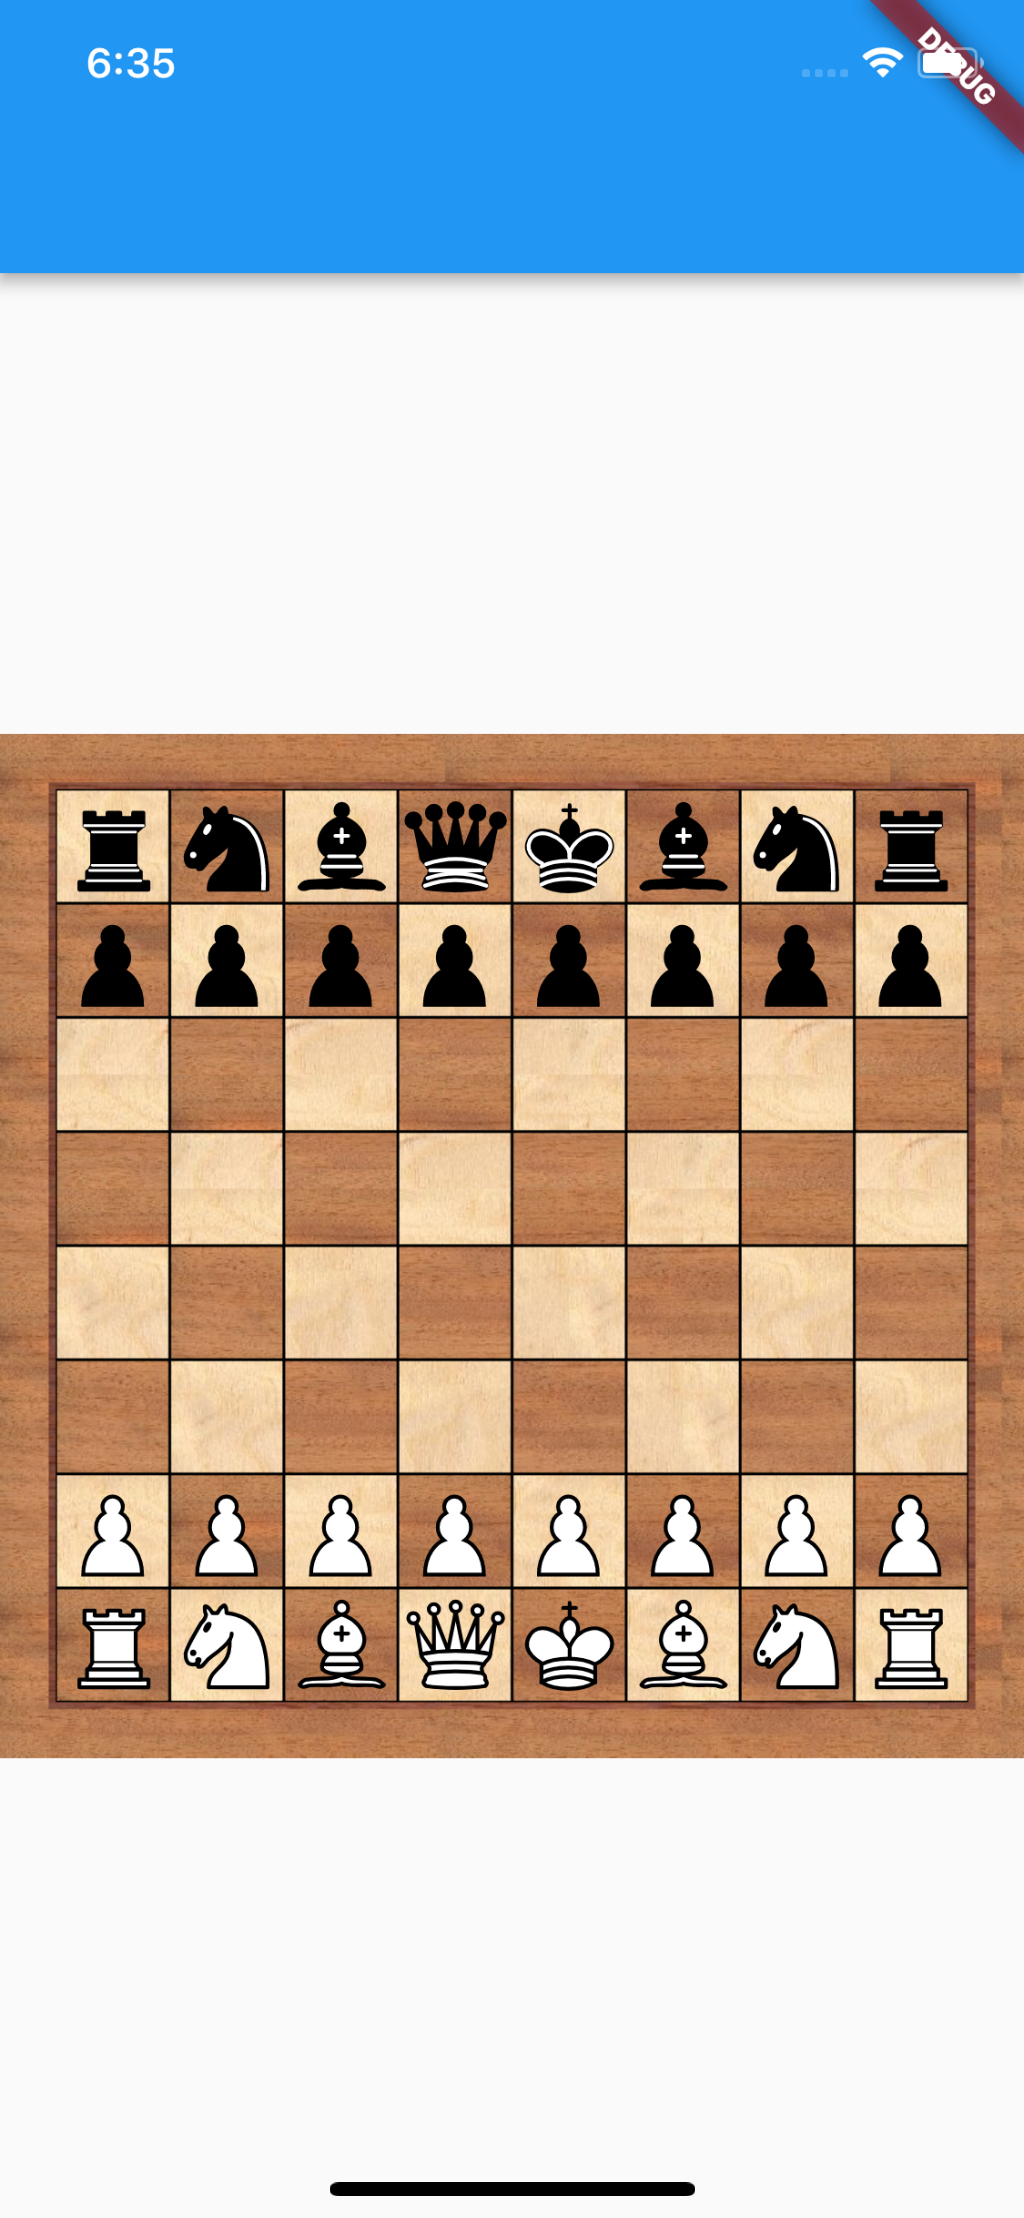
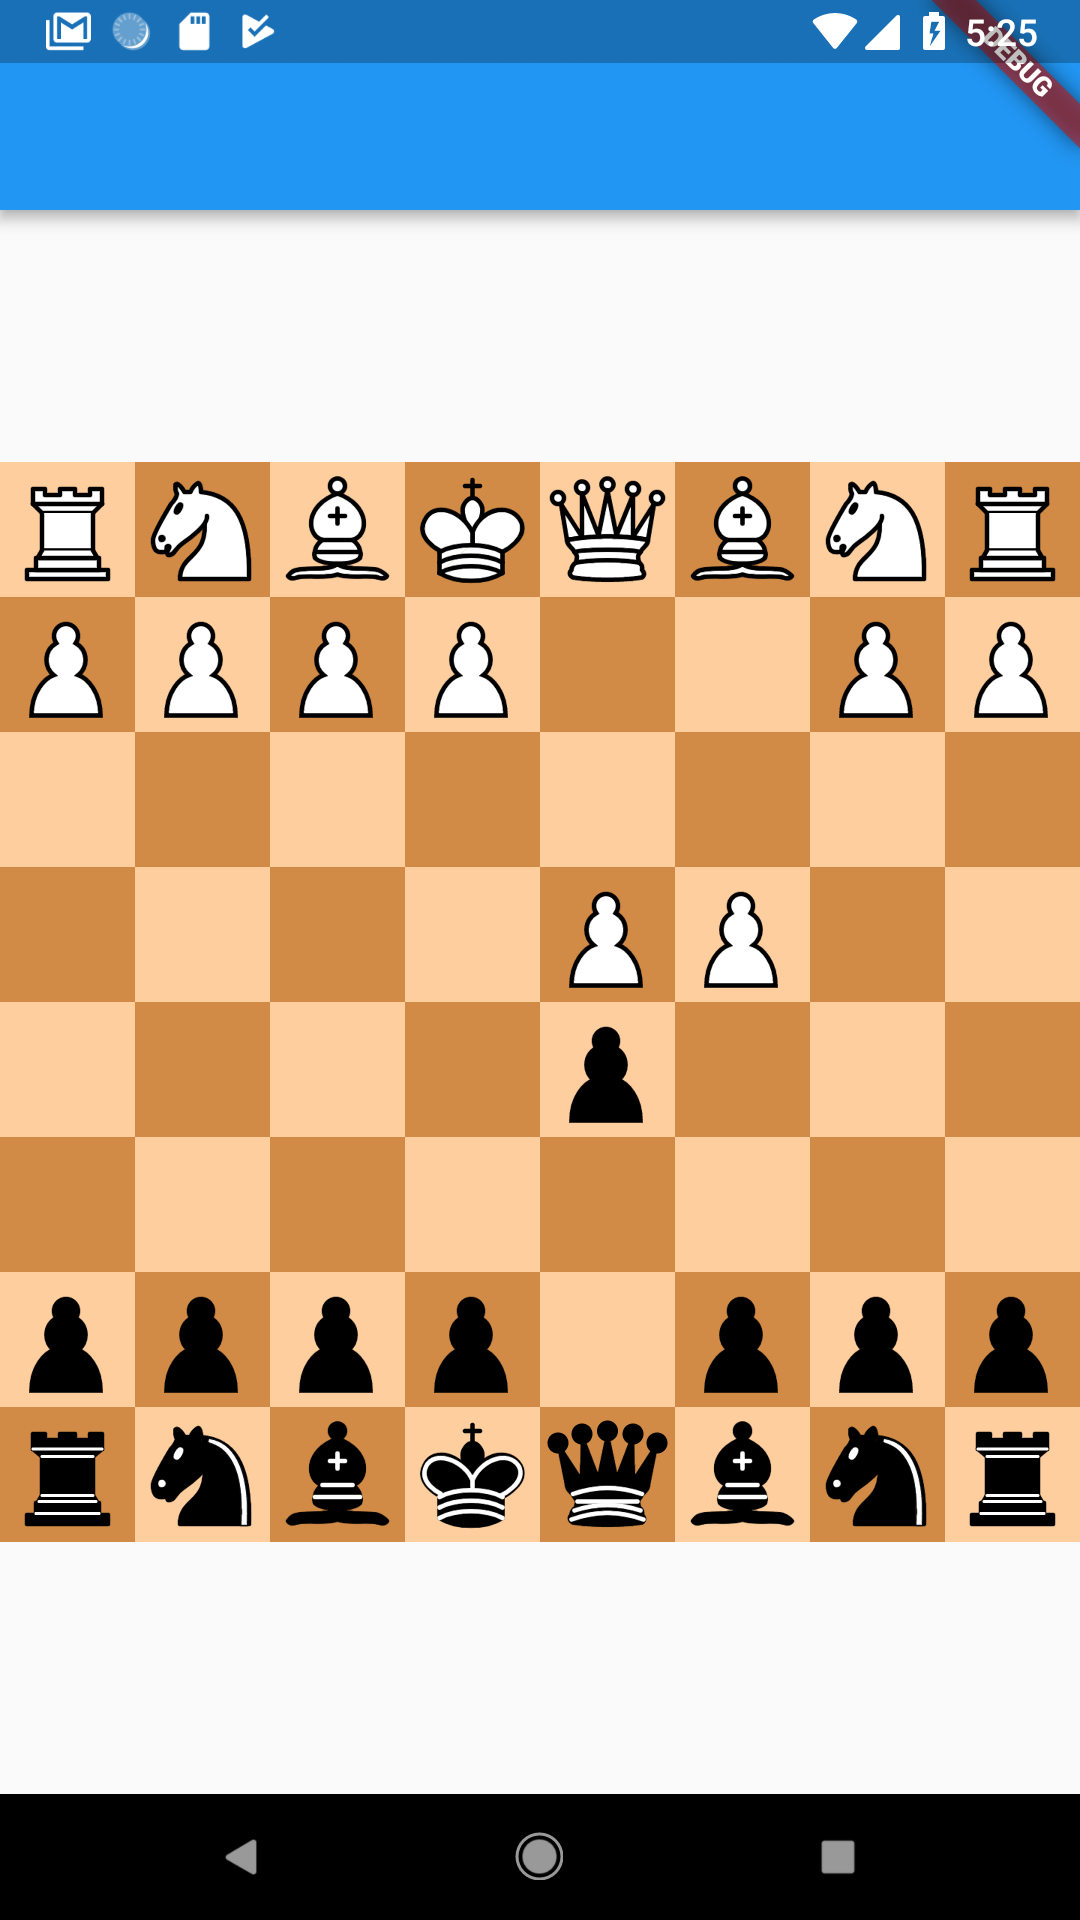
Release 0.1.0. Check Changelog for release notes.

diff --git a/lib/flutter_chess_board.dart b/lib/flutter_chess_board.dart
@@ -22,8 +22,13 @@ class ChessBoard extends StatefulWidget {
   // Defines the callback on draw.
   final VoidCallback onDraw;
 
+  // Defines what orientation to draw the board.
+  // If the user is white, the white pieces face the user.
+  final bool whiteSideTowardsUser;
+
   ChessBoard(
       {this.size = 200.0,
+      this.whiteSideTowardsUser = true,
       @required this.onMove,
       @required this.onCheckMate,
       @required this.onDraw});
@@ -55,141 +60,9 @@ class _ChessBoardState extends State<ChessBoard> {
           //Overlaying draggables/ dragTargets onto the squares
           Center(
             child: Container(
-              height: widget.size * 0.89,
-              width: widget.size * 0.89,
-              child: Column(
-                mainAxisAlignment: MainAxisAlignment.center,
-                children: <Widget>[
-                  ChessBoardRank(
-                    children: [
-                      "a8",
-                      "b8",
-                      "c8",
-                      "d8",
-                      "e8",
-                      "f8",
-                      "g8",
-                      "h8",
-                    ],
-                    game: game,
-                    size: widget.size,
-                    onMove: widget.onMove,
-                    refreshBoard: refreshBoard,
-                  ),
-                  ChessBoardRank(
-                    children: [
-                      "a7",
-                      "b7",
-                      "c7",
-                      "d7",
-                      "e7",
-                      "f7",
-                      "g7",
-                      "h7",
-                    ],
-                    game: game,
-                    size: widget.size,
-                    onMove: widget.onMove,
-                    refreshBoard: refreshBoard,
-                  ),
-                  ChessBoardRank(
-                    children: [
-                      "a6",
-                      "b6",
-                      "c6",
-                      "d6",
-                      "e6",
-                      "f6",
-                      "g6",
-                      "h6",
-                    ],
-                    game: game,
-                    size: widget.size,
-                    onMove: widget.onMove,
-                    refreshBoard: refreshBoard,
-                  ),
-                  ChessBoardRank(
-                    children: [
-                      "a5",
-                      "b5",
-                      "c5",
-                      "d5",
-                      "e5",
-                      "f5",
-                      "g5",
-                      "h5",
-                    ],
-                    game: game,
-                    size: widget.size,
-                    onMove: widget.onMove,
-                    refreshBoard: refreshBoard,
-                  ),
-                  ChessBoardRank(
-                    children: [
-                      "a4",
-                      "b4",
-                      "c4",
-                      "d4",
-                      "e4",
-                      "f4",
-                      "g4",
-                      "h4",
-                    ],
-                    game: game,
-                    size: widget.size,
-                    onMove: widget.onMove,
-                    refreshBoard: refreshBoard,
-                  ),
-                  ChessBoardRank(
-                    children: [
-                      "a3",
-                      "b3",
-                      "c3",
-                      "d3",
-                      "e3",
-                      "f3",
-                      "g3",
-                      "h3",
-                    ],
-                    game: game,
-                    size: widget.size,
-                    onMove: widget.onMove,
-                    refreshBoard: refreshBoard,
-                  ),
-                  ChessBoardRank(
-                    children: [
-                      "a2",
-                      "b2",
-                      "c2",
-                      "d2",
-                      "e2",
-                      "f2",
-                      "g2",
-                      "h2",
-                    ],
-                    game: game,
-                    size: widget.size,
-                    onMove: widget.onMove,
-                    refreshBoard: refreshBoard,
-                  ),
-                  ChessBoardRank(
-                    children: [
-                      "a1",
-                      "b1",
-                      "c1",
-                      "d1",
-                      "e1",
-                      "f1",
-                      "g1",
-                      "h1",
-                    ],
-                    game: game,
-                    size: widget.size,
-                    onMove: widget.onMove,
-                    refreshBoard: refreshBoard,
-                  ),
-                ],
-              ),
+              height: widget.size,
+              width: widget.size,
+              child: buildChessBoard(),
             ),
           )
         ],
@@ -204,6 +77,113 @@ class _ChessBoardState extends State<ChessBoard> {
     } else if (game.in_draw || game.in_stalemate) {
       widget.onDraw();
     }
+  }
+
+  Widget buildChessBoard() {
+    var whiteSquareList = [
+      [
+        "a8",
+        "b8",
+        "c8",
+        "d8",
+        "e8",
+        "f8",
+        "g8",
+        "h8",
+      ],
+      [
+        "a7",
+        "b7",
+        "c7",
+        "d7",
+        "e7",
+        "f7",
+        "g7",
+        "h7",
+      ],
+      [
+        "a6",
+        "b6",
+        "c6",
+        "d6",
+        "e6",
+        "f6",
+        "g6",
+        "h6",
+      ],
+      [
+        "a5",
+        "b5",
+        "c5",
+        "d5",
+        "e5",
+        "f5",
+        "g5",
+        "h5",
+      ],
+      [
+        "a4",
+        "b4",
+        "c4",
+        "d4",
+        "e4",
+        "f4",
+        "g4",
+        "h4",
+      ],
+      [
+        "a3",
+        "b3",
+        "c3",
+        "d3",
+        "e3",
+        "f3",
+        "g3",
+        "h3",
+      ],
+      [
+        "a2",
+        "b2",
+        "c2",
+        "d2",
+        "e2",
+        "f2",
+        "g2",
+        "h2",
+      ],
+      [
+        "a1",
+        "b1",
+        "c1",
+        "d1",
+        "e1",
+        "f1",
+        "g1",
+        "h1",
+      ],
+    ];
+
+    return Column(
+      children: widget.whiteSideTowardsUser
+          ? whiteSquareList.map((row) {
+              return ChessBoardRank(
+                children: row,
+                game: game,
+                size: widget.size,
+                onMove: widget.onMove,
+                refreshBoard: refreshBoard,
+              );
+            }).toList()
+          : whiteSquareList.reversed.map((row) {
+              return ChessBoardRank(
+                children: row.reversed.toList(),
+                game: game,
+                size: widget.size,
+                onMove: widget.onMove,
+                refreshBoard: refreshBoard,
+              );
+            }).toList(),
+    );
   }
 }
 
@@ -261,9 +241,8 @@ class _BoardSquareState extends State<BoardSquare> {
       child: DragTarget(builder: (context, accepted, rejected) {
         return widget.game.get(widget.squareName) != null
             ? Draggable(
-                child: _getImageToDisplay(size: 45.0 * (widget.size / 400.0)),
-                feedback:
-                    _getImageToDisplay(size: 55.0 * (widget.size / 400.0)),
+                child: _getImageToDisplay(size: widget.size / 8),
+                feedback: _getImageToDisplay(size: (1.2 * (widget.size / 8))),
                 onDragCompleted: () {},
                 data: [
                   widget.squareName,
@@ -366,36 +345,37 @@ class _BoardSquareState extends State<BoardSquare> {
       barrierDismissible: false,
       builder: (BuildContext context) {
         return new AlertDialog(
-            title: new Text('Choose promotion'),
-            content: Row(
-              mainAxisAlignment: MainAxisAlignment.spaceEvenly,
-              children: <Widget>[
-                InkWell(
-                  child: WhiteQueen(),
-                  onTap: () {
-                    Navigator.of(context).pop("q");
-                  },
-                ),
-                InkWell(
-                  child: WhiteRook(),
-                  onTap: () {
-                    Navigator.of(context).pop("r");
-                  },
-                ),
-                InkWell(
-                  child: WhiteBishop(),
-                  onTap: () {
-                    Navigator.of(context).pop("b");
-                  },
-                ),
-                InkWell(
-                  child: WhiteKnight(),
-                  onTap: () {
-                    Navigator.of(context).pop("n");
-                  },
-                ),
-              ],
-            ));
+          title: new Text('Choose promotion'),
+          content: Row(
+            mainAxisAlignment: MainAxisAlignment.spaceEvenly,
+            children: <Widget>[
+              InkWell(
+                child: WhiteQueen(),
+                onTap: () {
+                  Navigator.of(context).pop("q");
+                },
+              ),
+              InkWell(
+                child: WhiteRook(),
+                onTap: () {
+                  Navigator.of(context).pop("r");
+                },
+              ),
+              InkWell(
+                child: WhiteBishop(),
+                onTap: () {
+                  Navigator.of(context).pop("b");
+                },
+              ),
+              InkWell(
+                child: WhiteKnight(),
+                onTap: () {
+                  Navigator.of(context).pop("n");
+                },
+              ),
+            ],
+          ),
+        );
       },
     ).then((value) {
       return value;

diff --git a/README.md b/README.md
@@ -37,6 +37,29 @@ To use this package, [add chess_board as a dependency](https://pub.dartlang.org/
           );
         }
 
+## Board parameters:
+
+###size: 
+
+Gives length and width of chess board
+
+###onMove:
+
+Callback for when a move is made. Returns a move as a string. E.g.: "Nf4"
+
+###onDraw:
+
+Callback for when game becomes a draw.
+
+###onCheckMate: 
+
+Callback for when a player checkmates the other. Returns the color of the winner.
+
+###whiteSideTowardsUser:
+
+Defines if white or black side faces user. The player is white by default(true). If 
+set to false, black faces the user.
+
 ### Getting Started
 
 For help getting started with Flutter, view our online [documentation](https://flutter.io/).

diff --git a/CHANGELOG.md b/CHANGELOG.md
@@ -1,3 +1,6 @@
-## [0.0.5] - 23/08/2018.
+## [0.1.0] - 26/08/2018.
 
-* Fixed critical image loading bug.
+* Added the ability to orient any color towards the user.
+* Changed background to remove margins.
+* Shortened code to build chess board.
+* Reduced size taken by package.
